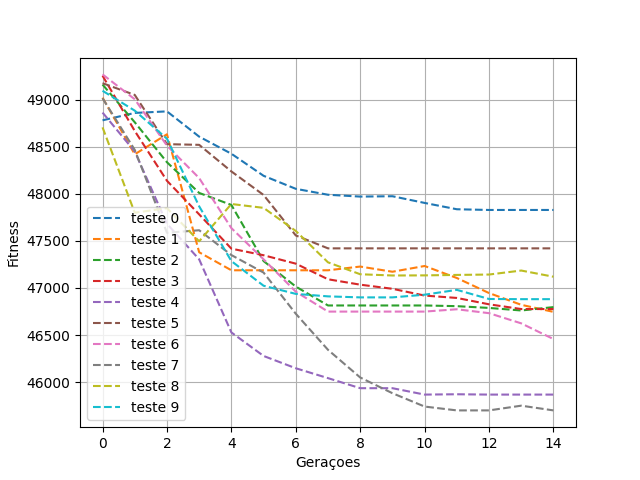
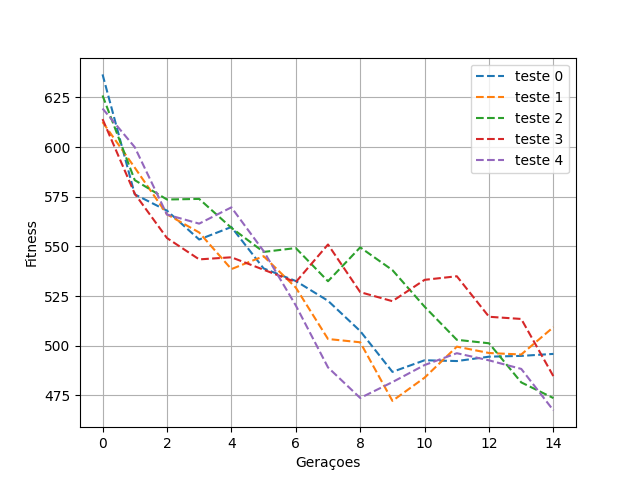
Finalizando detalhes

Changed region(s): [[0.0, 0.125, 0.9062, 0.875], [0.3438, 0.6875, 0.4375, 0.75], [0.0312, 0.2812, 0.125, 0.3438]]

diff --git a/algoritmo_genetico/Populacao.py b/algoritmo_genetico/Populacao.py
@@ -4,13 +4,13 @@ from .geradores import *
 
 
 class Populacao:
-    def __init__(self, grafo: nx.Graph, npopulacao):
+    def __init__(self, grafo: nx.Graph, npopulacao, mutacao):
         self.geracoes = []
         self.grafo = grafo
         self.geracao = []
         self.npopulacao = npopulacao
         self.pesos_cruzamento = []
-        self.chance_mutacao = 5
+        self.chance_mutacao = mutacao
 
     def geracao_aleatoria(self):
         self.geracao =[]
@@ -41,8 +41,8 @@ class Populacao:
         melhores = self.selecionar_melhores()
         self.geracao = []
         self.geracao.append(melhores[0])
+        self.pesos_cruzamento = pesos_cruzamento(self.npopulacao)
         for i in range(1, self.npopulacao):
-            self.pesos_cruzamento = [10, 9, 8, 7, 6, 5, 4, 3, 2, 1]
             individuo1 = random.choices(melhores, weights=self.pesos_cruzamento, k=1)
             individuo2 = random.choices(melhores, weights=self.pesos_cruzamento, k=1)
             filho = self.cruzamento(individuo1[0], individuo2[0])
@@ -55,19 +55,23 @@ class Populacao:
 
     def cruzamento(self, individuo1, individuo2):
         filho = {}
-        caminho = []
+        caminho = [None] * len(self.grafo.nodes())
         fitness = 0
-        for i in range(len(self.grafo.nodes())):
-            if i < len(individuo1["caminho"]) / 2:
-                caminho.append(individuo1["caminho"][i])
-            else:
-                if individuo2["caminho"][i] not in caminho:
-                    caminho.append(individuo2["caminho"][i])
 
-        if len(caminho) < len(self.grafo.nodes()):
-            for i in range(len(self.grafo.nodes())):
-                if individuo2["caminho"][i] not in caminho:
-                    caminho.append(individuo2["caminho"][i])
+        # Selecionar ponto de corte
+        ponto_corte1 = random.randint(0, len(self.grafo.nodes()) - 1)
+        ponto_corte2 = random.randint(ponto_corte1, len(self.grafo.nodes()) - 1)
+
+        # Copiar segmento do primeiro pai
+        caminho[ponto_corte1:ponto_corte2 + 1] = individuo1["caminho"][ponto_corte1:ponto_corte2 + 1]
+
+        # Preencher restante do caminho com genes do segundo pai
+        posicao_atual = (ponto_corte2 + 1) % len(self.grafo.nodes())
+        for gene in individuo2["caminho"]:
+            if gene not in caminho:
+                caminho[posicao_atual] = gene
+                posicao_atual = (posicao_atual + 1) % len(self.grafo.nodes())
+
         fitness = avaliacao_fitness(caminho, self.grafo)
         filho = {'caminho': caminho, 'fitness': fitness}
         return filho
@@ -81,7 +85,7 @@ class Populacao:
                     break
 
             auxiliar = caminho[i]
-            caminho[i] =caminho[k]
+            caminho[i] = caminho[k]
             caminho[k] = auxiliar
 
         return caminho

diff --git a/Visao/Printer.py b/Visao/Printer.py
@@ -13,7 +13,7 @@ def mostrar_grafo(grafo: nx.Graph):
 
 #    plt.show()  # Exibe o gráfico
 
-class Grafico:
+class Grafico_geral:
     def __init__(self, num_geracoes, num_testes):
         self.fitness_geracoes = {}
         self.y = []
@@ -23,15 +23,41 @@ class Grafico:
         self.num_geracoes = num_geracoes
         self.num_testes = num_testes
 
-    def show_grafico(self):
+    def salvar_grafico_geral(self):
         for teste in range(0, self.num_testes):
             r = np.round(np.random.rand(), 1)
             g = np.round(np.random.rand(), 1)
             b = np.round(np.random.rand(), 1)
-            plt.plot(self.y, self.fitness_geracoes[teste], marker=' ', linestyle='dashed', label="teste " + str(teste))
-            plt.grid(True)
-            plt.xlabel("Geraçoes")
-            plt.ylabel("Fitness")
+            plt.plot(self.y, self.fitness_geracoes[teste], marker='.', linestyle='solid', label="teste " + str(teste))
             plt.legend()
-        plt.savefig("Grafico.png")
+        plt.grid(True)
+        plt.title(str(self.num_testes) + " Testes")
+        plt.xlabel("Geraçoes")
+        plt.ylabel("Fitness")
+        plt.savefig("Grafico_geral.png")
+        plt.close()
+
+
+class grafico_geracao:
+    def __init__(self, fitness):
+        self.maximo = []
+        self.minimo = []
+        self.medio = []
+        for i in range(len(fitness)):
+            self.maximo.append(fitness[i]["maximo"])
+            self.minimo.append(fitness[i]["minimo"])
+            self.medio.append(fitness[i]["medio"])
+        self.y = list(range(len(fitness)))
+
+    def salvar_grafico_geracao(self):
+        plt.plot(self.y, self.maximo, marker='.', linestyle='solid', label="Maximo")
+        plt.plot(self.y, self.minimo, marker='.', linestyle='solid', label="Minimo")
+        plt.plot(self.y, self.medio, marker='.', linestyle='solid', label="Medio")
+
+        plt.title("Maximos, minimos e médias")
+        plt.grid(True)
+        plt.xlabel("Geraçoes")
+        plt.ylabel("Fitness")
+        plt.legend()
+        plt.savefig("Grafico_geracao.png")
         plt.close()

diff --git a/main.py b/main.py
@@ -4,34 +4,43 @@ from algoritmo_genetico import *
 
 
 def main():
-    num_testes = 10
+    num_testes = 5
     num_geracoes = 15
-    num_individuos = 10
+    num_individuos = 20
+    chance_mutacao = 5
 
-    arquivo = "sgb.txt"  # lau.txt ou sgb.txt
+    arquivo = "lau.txt"  # lau.txt ou sgb.txt
 
     criador_grafo = Criador_grafo(Leitor(arquivo))
     criador_grafo.criar_grafo()
     grafo = criador_grafo.get_grafo()
     mostrar_grafo(grafo)
 
-    grafico = Grafico(num_geracoes, num_testes)
+    grafico = Grafico_geral(num_geracoes, num_testes)
 
-    populacao = Populacao(grafo, 10)
+    populacao = Populacao(grafo, num_individuos, chance_mutacao)
 
     for teste in range(0, num_testes):
         fitness_teste = []
+        estatisticas_fitness = []
         for geracao in range(0, num_geracoes):
             print(f"Geracao {geracao}")
             if geracao == 0:
                 populacao.geracao_aleatoria()
             else:
                 populacao.geracao_cruzamento()
+
             populacao.imprimir_geracao()
             fitness_teste.append(fitness_medio(populacao.get_geracao()))
+            if teste == num_testes - 1:
+                estatisticas_fitness.append(estatisticas_fitness_ind(populacao.get_geracao()))
+
         grafico.fitness_geracoes[teste] = fitness_teste
 
-    grafico.show_grafico()
+        if teste == num_testes - 1:
+            grafico_geracao_obj = grafico_geracao(estatisticas_fitness)
+            grafico_geracao_obj.salvar_grafico_geracao()
+    grafico.salvar_grafico_geral()
 
 
 if __name__ == "__main__":

diff --git a/algoritmo_genetico/geradores.py b/algoritmo_genetico/geradores.py
@@ -35,12 +35,30 @@ def buscar_distancia(grafo: nx.Graph, origem: int, destino: int):
     except nx.NetworkXNoPath:
         return float('inf')
 
+
+def pesos_cruzamento(num_individuos):
+    pesos = []
+    for i in range(num_individuos, 0, -1):
+        pesos.append(i)
+    print(pesos)
+    return pesos
+
+
 def fitness_medio(geracao: list):
     soma = 0
     for individuo in geracao:
         soma += individuo["fitness"]
-    
-    return soma/len(geracao)
+
+    return soma / len(geracao)
 
 
+def estatisticas_fitness_ind(geracao):
+    fitness = [individuo["fitness"] for individuo in geracao]
 
+    resultado = {
+        "minimo": min(fitness),
+        "maximo": max(fitness),
+        "medio": sum(fitness) / len(fitness)
+    }
+
+    return resultado
